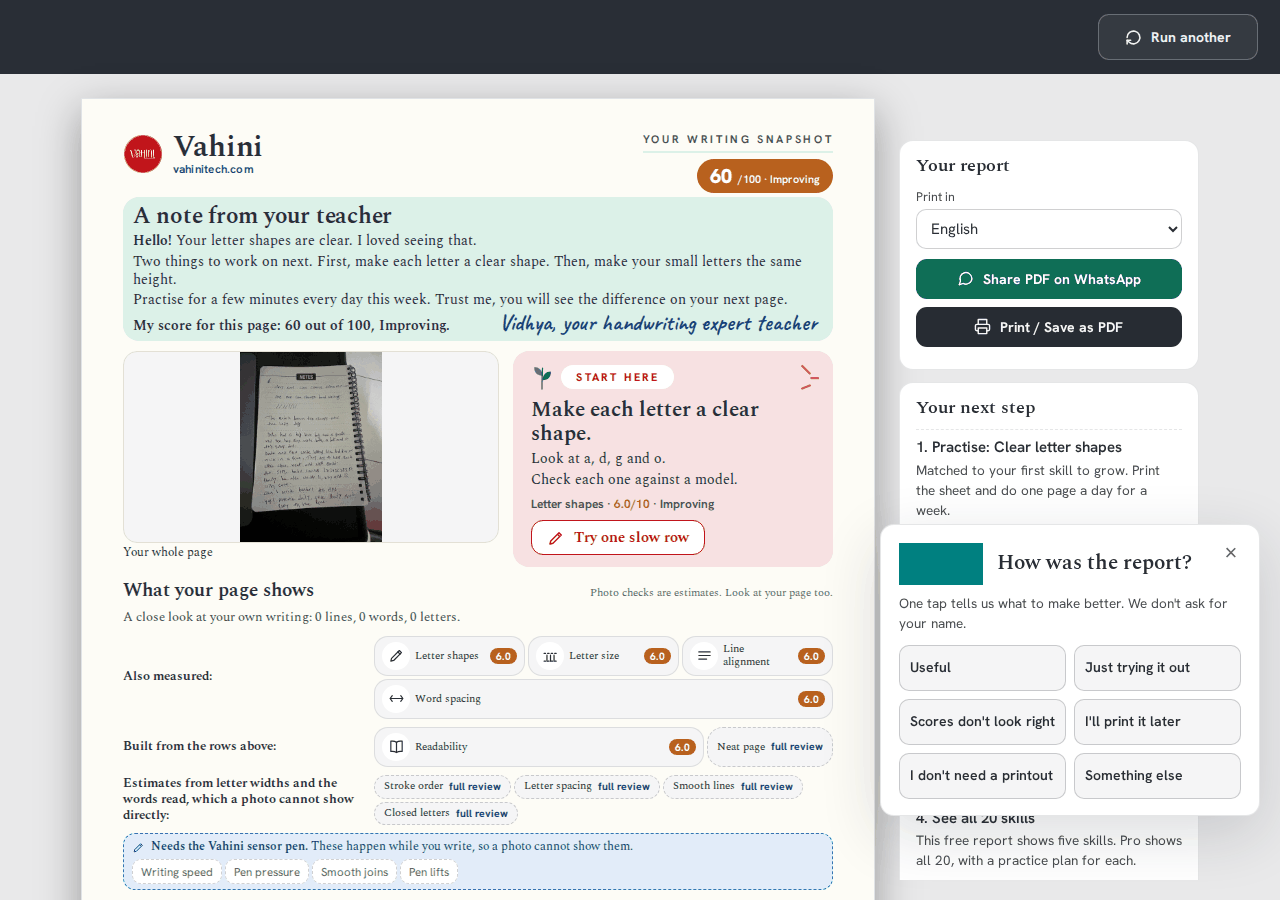
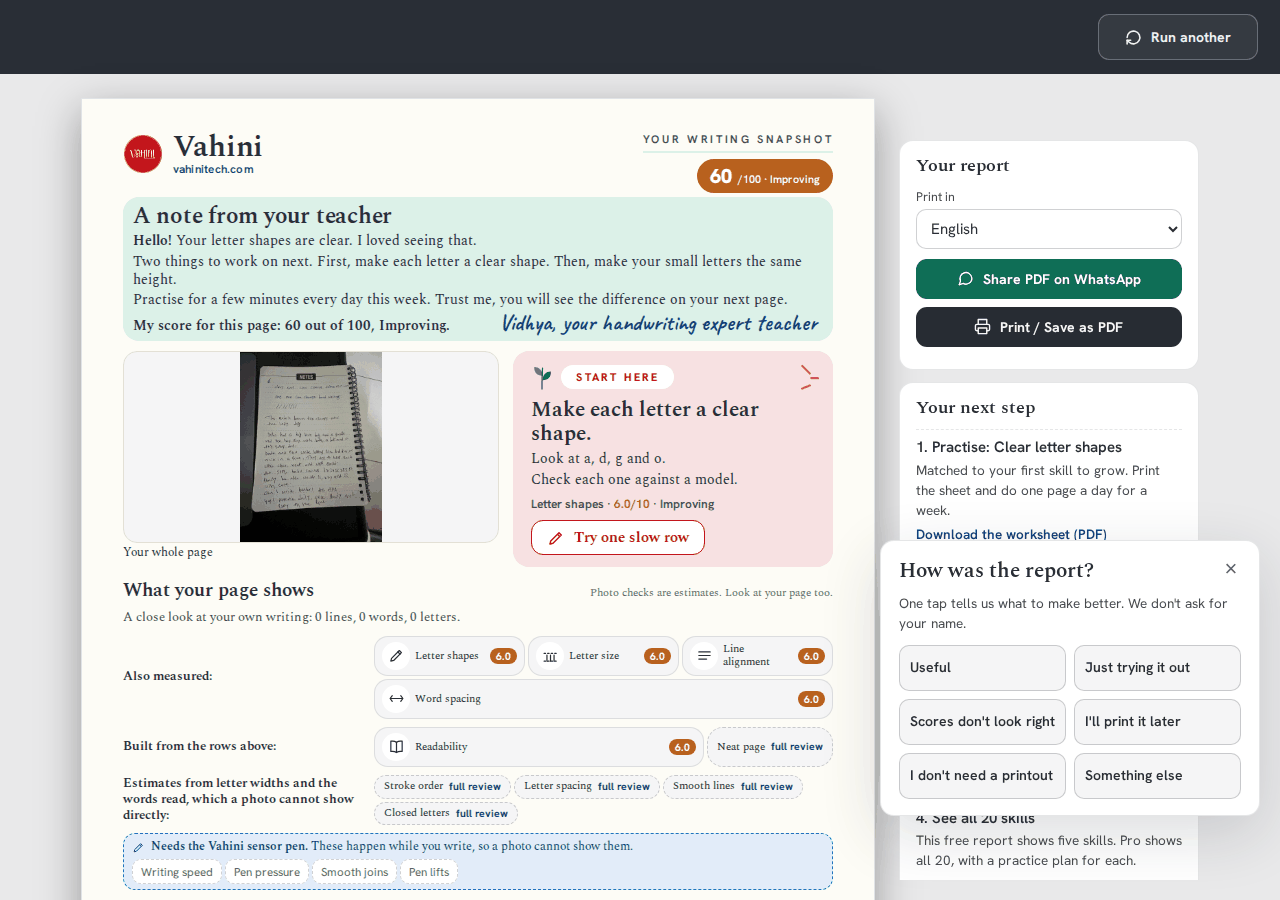
fix(check): no broken image when the host's Pihu does not load
The card's picture comes only from the host (VAHINI_REPORT_ART.tip);
this repository carries no drawings. A picture that fails to load now
leaves the card without one instead of an empty image, and the test
covers a 404 and a host with no art. The screenshots in
docs/report-feedback/ are now that card, without a picture, instead of
the test's stand-in block, which read as a failed image.

Changed region(s): [[0.6875, 0.56, 0.9375, 0.6533], [0.9375, 0.56, 1.0, 0.6222]]

diff --git a/frontend/analyser.html b/frontend/analyser.html
@@ -1077,6 +1077,8 @@
       var img = new Image();
       img.alt = "";
       img.onload = function(){ frame.hidden = false; cropToFigure(img, frame); };
+      // A picture that does not load leaves the card without one, never a broken image.
+      img.onerror = function(){ img.remove(); frame.hidden = true; };
       img.src = art.tip;
       frame.appendChild(img);
     });
